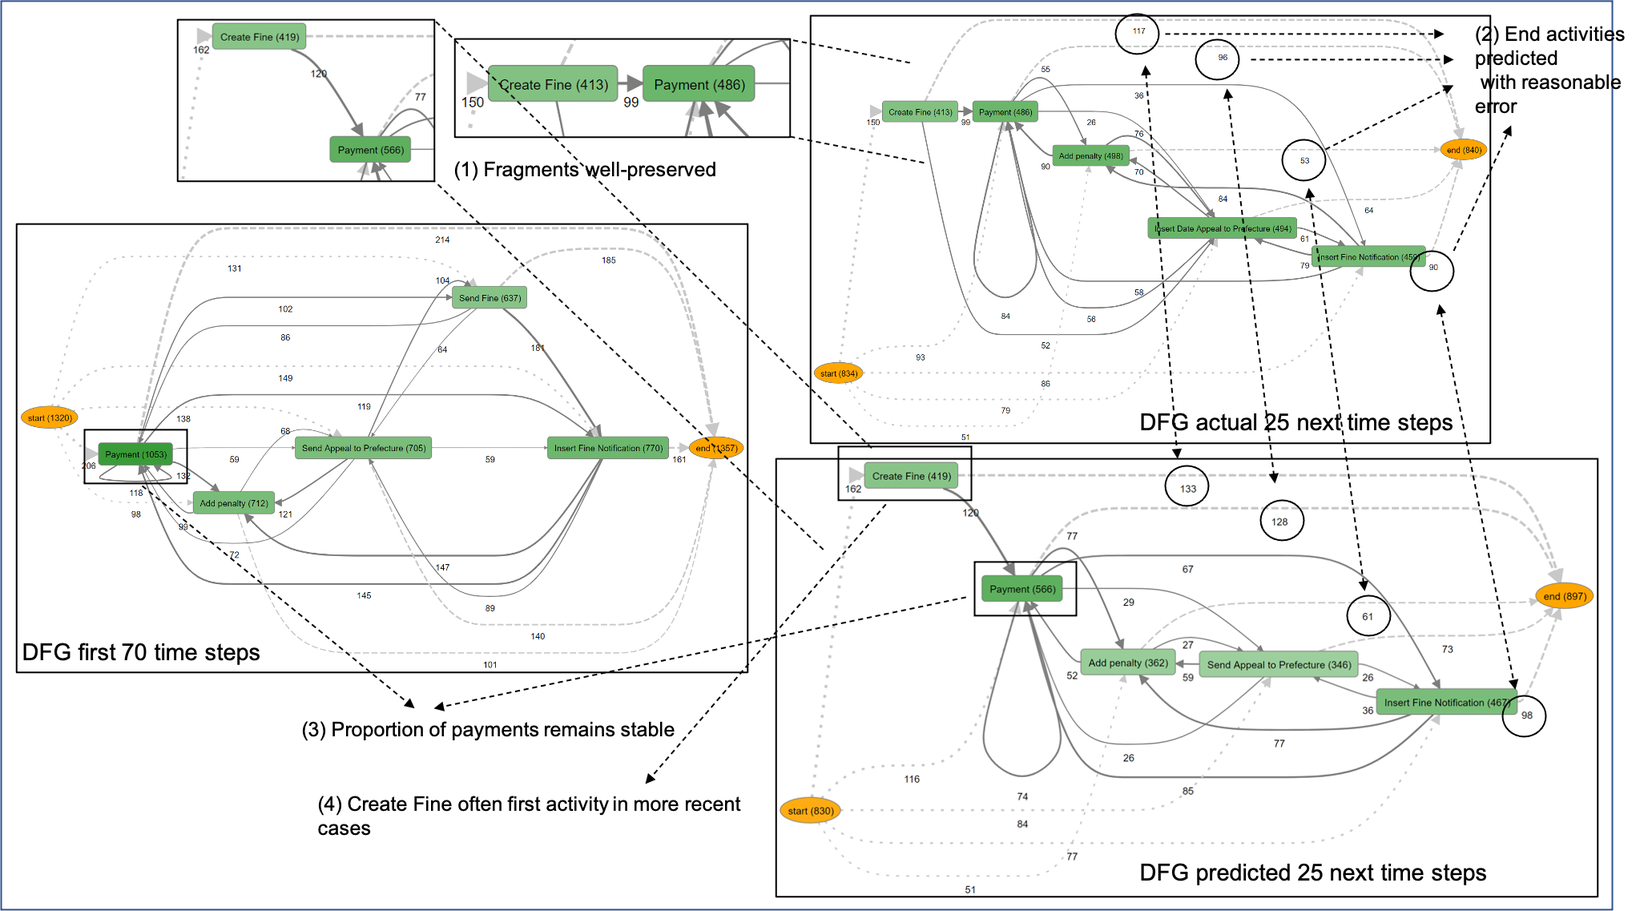
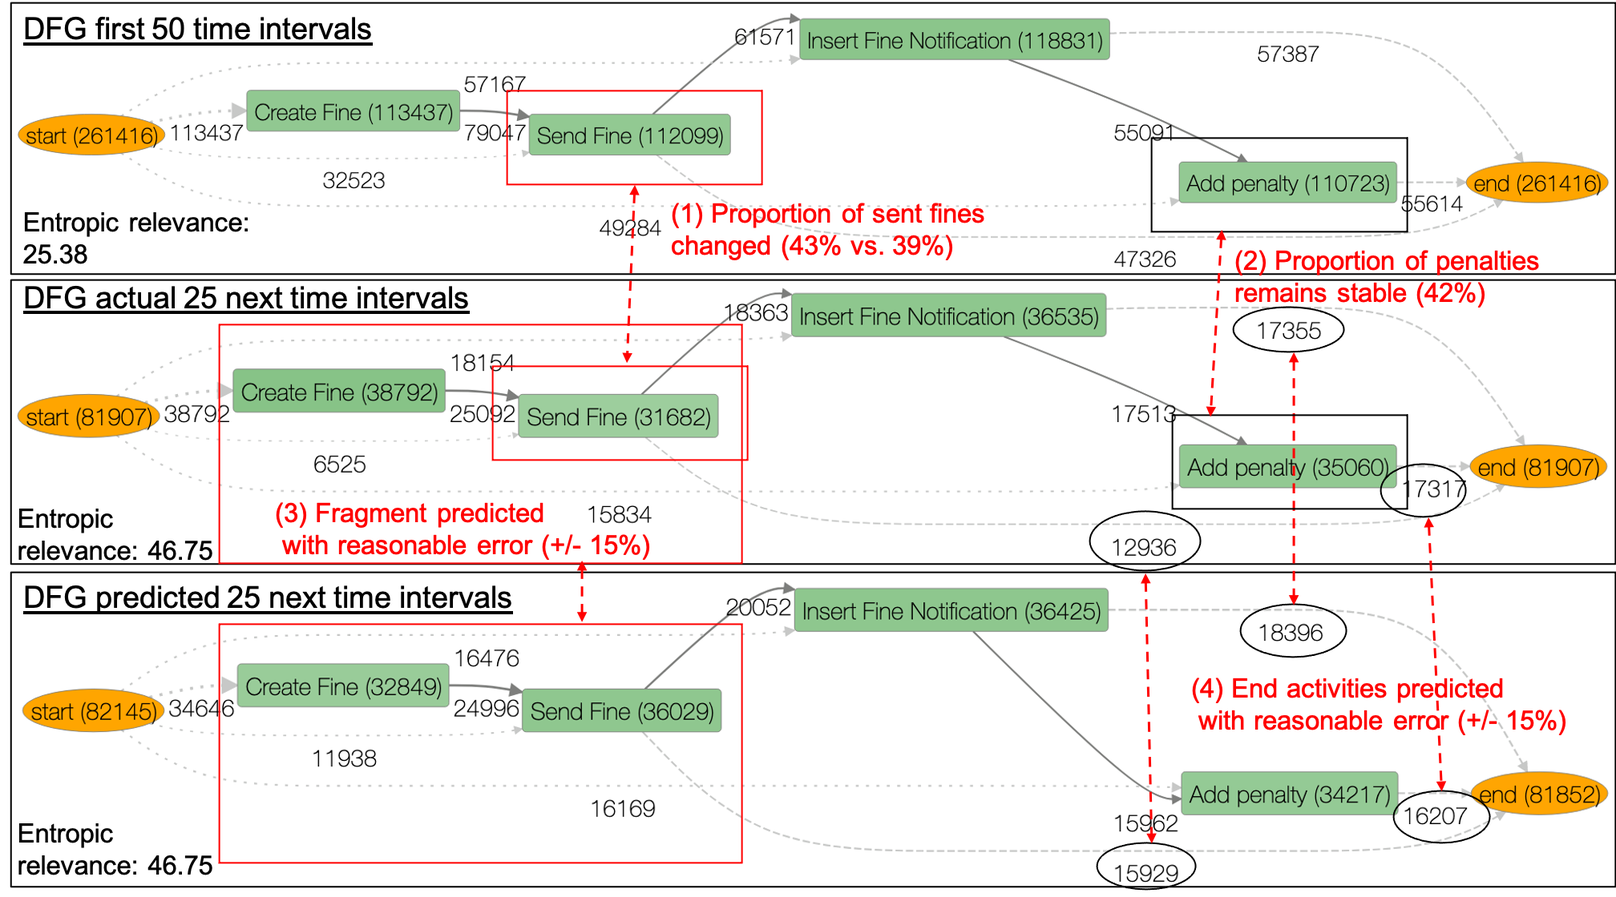
Mainly worked on the motivation section

Changed region(s): [[0.0, 0.0, 1.0, 1.0], [0.1875, 0.875, 0.5312, 0.9375]]

diff --git a/2-motivation.tex b/2-motivation.tex
@@ -4,36 +4,40 @@ The shift from fine-granular predictive process monitoring including next activi
 Consider the example in Figure \ref{fig:dfg_example_intro} where the road fine traffic management event log\footnote{\url{https://doi.org/10.4121/uuid:270fd440-1057-4fb9-89a9-b699b47990f5}} is partitioned into 100 intervals in which an equal number of DF relations occur.
 \begin{figure}
     \centering
-    \includegraphics[width=0.85\textwidth]{img/MotExample2.png}
+    \includegraphics[width=\textwidth]{img/MotExample.png}
     \caption{Directly-follows graphs of the 45 first intervals of the event log, as well as a forecasted and actual DFG of the 25 next intervals.}
     \label{fig:dfg_example_intro}
 \end{figure}
-The DFs in the first 45 intervals are used to predict the final 25 intervals.
-Entropic relevance \cite{DBLP:conf/icpm/PolyvyanyyMG20} is used to indicate that both the predicted and actual DFGs are of similar quality in terms of conformance (see Section \ref{sec:experiment}).
+The DFs in the first 50 intervals are used to predict the next 25 intervals.
 The DFGs show how process model forecasting and change exploration can provide multiple unique insights at a glance:
 \begin{enumerate}
-    \item The fragments and arc weights of the DFGs are well-preserved in the forecasted model;
-    \item The end activities are predicted with reasonable accuracy (+/- 10\%);
-    \item Compared to the initial 45 intervals the proportion of fine payments stays stable;
-    \item The \emph{Create Fine} activity appears as a start activity more often - indicating a possible process drift.
+    \item Compared to the initial 50 intervals the proportion of fines sent decreases in the later intervals;
+    \item The number of penalties added remains comparable between the first 50 and next 25 time intervals;
+    \item The number of occurrences and arc weights between \emph{Create Fine} and \emph{Send Fine} are predicted with reasonable error (+\-15\%)
+    \item The arc weights of the ending activities are predicted with reasonable error (+\-15\%)
 \end{enumerate}
-These provide insight both in terms of the past en present model ((3)-(4)) and the quality of forecasts between the actual and forecasted model ((1)-(2)).
-Being able to construct such predictions allows stakeholders to make estimates regarding how the overall fine system will evolve and allows to answer questions such as `How many more fines will be received?', `Will the backlog of fines be reduced?', `Will all fines be paid', and `Will the ratio of unpaid fines stay the same?'
+These provide insight both in terms of the past en present model ((1)-(2)) and the quality of forecasts between the actual and forecasted model ((3)-(4)).
+Being able to construct such forecasts allows stakeholders to make estimates regarding how the overall fine system will evolve and allows to answer questions such as `How many more fines will be received?', `Will the backlog of fines be reduced?', `Will all fines be paid', and `Will the ratio of unpaid fines stay the same?'
 This motivating example shows that, where process mining/monitoring focuses on learning the as-is model to reason about a to-be model and suggest potential repairs and improvements, process model forecasting allows to already grasp the future outcomes of the current as-is process, which allows to shortcut potentially wrong outcomes. 
 
-In this light we set to derive the user requirements to design visualisation the system to enable analysts to understand the forthcoming changes to the processes. The authors of~\cite{DBLP:conf/bpm/PollPRRR18} discuss the opportunities for process forecasting. They describe that the utility of process forecasting is an understanding of the incremental changes or adaptations that happen to the process model into the future. In terms of visualisation principles, we follow the "Visual Information-Seeking Mantra":~\emph{overview first, zoom and filter, then details-on-demand}~\cite{DBLP:conf/vl/Shneiderman96}. 
-%(maybe talk about tasks? not requirements)
-Thus, we expect the design of our system to assist in the following tasks:
+We evaluate the forecasts quantitatively using entropic relevance \cite{DBLP:conf/icpm/PolyvyanyyMG20} to measure the quality of the discovered and forecasted DFGs with respect to the event logs they represent. 
+Entropic relevance penalises the discrepancies in the relative frequencies of traces recorded in the log and described by the DFG. Entropic relevance stands for the average number of bits used to encode a log trace using the DFG, with small values being preferable to large ones.
+The entropic relevance of the forecasted DFG and the actual future DFG with respect to the test log is the same, suggesting that both DFGs represent the future behaviour similarly well. 
+The entropic relevance of the historical DFG derived from the training log with respect to the testing log is X, suggesting that the future behaviour shifts and the historical DFG does not describe the testing log well enough. 
+Finally, the DFG that describes all and only traces of the testing log with the relative frequencies as they are observed in the log has the entropic relevance with the testing log of Y, the best possible relevance value for this log. As the difference between 4.64 and Y is small, we conclude that the forecasted DFG approximates the actual future behaviour well and much better than the historical DFG.
 
-%requirements for the visualization based on the related literature and experience working with event sequence data. 
+In this light, we complement the model-level prediction technique with a visualisation system to enable analysts to understand the forthcoming changes to the processes. The authors of~\cite{DBLP:conf/bpm/PollPRRR18} discuss the opportunities for process forecasting. They describe that the utility of process forecasting is an understanding of the incremental changes or adaptations that happen to the process model into the future. In terms of visualisation principles, we follow the "Visual Information-Seeking Mantra":~\emph{overview first, zoom and filter, then details-on-demand}~\cite{DBLP:conf/vl/Shneiderman96}. 
+%(maybe talk about tasks? not requirements)
+Thus, we expect the design of our visualisation system to assist in the following tasks:
 
 \begin{requidescr}
-	\item[Identify process adaptations:\namedlabel{req:adaptation}] The visualization system should assist the user in identifying the changes that happen in the process model of the future in respect to the past;
-	\item[Allow for interactive exploration:\namedlabel{req:interactive}] The user should be able to follow the visual information-seeking principles, including overview first, filtering, zooming, details-on-demand principles.;
+	\item[Identify process adaptations:\namedlabel{req:adaptation}] The visualisation system should assist the user in identifying the changes that happen in the process model of the future in respect to the past;
+	\item[Allow for interactive exploration:\namedlabel{req:interactive}] The user should be able to follow the visual information-seeking principles, including overview first, filtering, zooming, and details-on-demand.
 \end{requidescr} % CUSTOM from CDC, with love :)
 
+Observe that our process model forecasting technique intrinsically puts forwards an entirely new perspective on predictive process monitoring. The prediction horizon is much longer compared to what existing next-activity prediction models can achieve. Moreover, where next-activity and related predictive algorithms have a strong case-level focus, our technique centres on model-level prediction to obtain a full picture of the future development of a process (model). Please note that process model forecasting could partially assume goal-oriented prediction, as the forecast DFG allows to answer multiple oftentimes used goal statements pertaining to the execution of a particular activity, or a precedence relationship of a particular activity pair \cite{DBLP:journals/tkdd/TeinemaaDRM19} at the same time. However, our technique is not intended to ``replace'' existing techniques, but rather puts forward an entirely new perspective.
 
-Note that the horizon is longer compared with next-step prediction, and that these results would only be obtainable if long next-step predictions were performed.
-Hence, both are complementary by their being used as varying horizons to obtain a full picture of the future development of a process (model).
-Process model forecasting remains complementary with remaining time prediction as well, which could indicate what activities lead to what remaining time.
-The process model forecast can partially assume goal-oriented prediction, as the forecast DFG allows to answer multiple oftentimes used goal statements pertaining to the execution of a particular activity, or a precedence relationship of a particular activity pair \cite{DBLP:journals/tkdd/TeinemaaDRM19} at the same time.
+%Note that the horizon is longer compared with next-step prediction, and that these results would only be obtainable if long next-step predictions were performed.
+%Hence, both are complementary by their being used as varying horizons to obtain a full picture of the future development of a process (model).
+%Process model forecasting remains complementary with remaining time prediction as well, which could indicate what activities lead to what remaining time.
+%The process model forecast can partially assume goal-oriented prediction, as the forecast DFG allows to answer multiple oftentimes used goal statements pertaining to the execution of a particular activity, or a precedence relationship of a particular activity pair \cite{DBLP:journals/tkdd/TeinemaaDRM19} at the same time.

diff --git a/3.1-2-dftimeseries.tex b/3.1-2-dftimeseries.tex
@@ -12,14 +12,15 @@ In the proposed forecasting approach, however, time series instead of cross-sect
 Hence, the evolution of the DFGs has to be monitored over intervals of the log where multiple aggregations are possible:
 \begin{itemize}
 	\item \textbf{Equitemporal aggregation:} each sublog $L_s\in L$ contains a part of the event log of equal time duration. This can lead to sparsely populated sublogs when the events' occurrences are not uniformly spread over time, however, it is easy to apply (on new traces).
-	\item \textbf{Equisized aggregation:} each sublog $L_s\in L$ contains a part of the event log where an equal amount of events (and hence DFs) occurred. This leads to well-populated sublogs, however, might be harder to apply when new data does not contain sufficient new DF occurrences.
+	\item \textbf{Equisized aggregation:} each sublog $L_s\in L$ contains a part of the event log where an equal amount of DFs occurred which leads to well-populated sublogs when enough events are available.
 \end{itemize}
 Tables \ref{tab:eventlog} and \ref{tab:aggregation} provide an example of both.
 These aggregations can be useful for the following reasons.
 Firstly, equisized aggregation will have a higher likelihood of the underlying DFs approaching a white noise time series which is required for a wide range of time series techniques \cite{hyndman2018forecasting}. 
 Secondly, both offer a different threshold at which the forecasting can be applied in practice.
 In the case of equisized aggregation, it is easier to quickly construct a desired number of intervals by simply dividing an event log to obtain equisized intervals.
-However, most time series techniques rely on the time steps being of equal size which is embodied by the equitemporal aggregation \cite{kil1997optimum}.
+However, most time series techniques rely on the time intervals being of equal size which is embodied by the equitemporal aggregation \cite{kil1997optimum}.
+Time series for the DFs $>_{T_{a_1,a_2}}=\langle >_{L_1}(a_1,a_2),\dots,>_{L_s}(a_1,a_2)\rangle, \forall a_1,a_2\in \Sigma\times\Sigma$ can be obtained for all activity pairs where $\bigcup^{L_s}_{L_1}=L$ by applying the aforementioned aggregations to obtain the sublogs.
 \begin{table}[htbp]
    \begin{minipage}{.5\textwidth}
    	\centering
@@ -60,18 +61,47 @@ However, most time series techniques rely on the time steps being of equal size 
  \end{minipage}%
 \end{table}%
 
-Time series for the DFs $>_{T_{a_1,a_2}}=\langle >_{L_1}(a_1,a_2),\dots,>_{L_s}(a_1,a_2)\rangle, \forall a_1,a_2\in \Sigma\times\Sigma$ can be obtained for all activity pairs where $\bigcup^{L_s}_{L_1}=L$ by applying the aforementioned aggregations to obtain the sublogs.
+\subsection{From DF time series to process model forecasts}\label{sec:3b:df}
 
-%\subsection{From DF time series to process model forecasts}\label{sec:3b:df}
+The goal of process model forecasting is to obtain a prediction for future DFGs by combining the predictions of all the DF pairs time series.
+To this purpose, we propose to use time series techniques to forecast $\widehat{DFG}_{T+h}=(\Sigma,\{\hat{>}_{T+h|T_{a_1,a_2}}|a_1,a_2\in \Sigma\times\Sigma\})$ for which various algorithms can be used.
+In time series modelling, the main objective is to obtain a forecast or prediction $\hat{y}_{T+h|T}$ for a horizon $h\in \mathbb{N}$ based on previous $T$ values in the series $(y_1,...,y_T)$ \cite{hyndman2018forecasting}.
+For example, the naive forecast simply uses the last value of the time series $T$ as its prediction $\hat{y}_{T+h|T}=y_T$.
+An alternative naive forecast uses the average value of the time series $T$ as its prediction $\hat{y}_{T+h|T}=\frac{1}{T}\Sigma_i^{T} y_i$.
 
 A trade-off exists between approaching DFGs as a multivariate collection of DF time series, or treating each DF separately.
-The aforementioned time series techniques all use univariate data in contrast with, e.g., Vector AutoRegression (VAR) models, or machine learning-based methods such as neural networks or random forest regressors.
+Traditional tme series techniques all use univariate data in contrast with multivariate approaches such as Vector AutoRegression (VAR) models, and machine learning-based methods such as neural networks or random forest regressors.
 Despite their simple setup, it is debated whether traditional statistical approaches are necessarily outperformed by machine learning methods. 
 \cite{makridakis2018statistical} found that this is not the case on a large number of datasets and note that the machine learning algorithms require significantly more computational power, a result that was later reaffirmed although it is noted that hybrid solutions are effective \cite{makridakis2020m4}.
 Especially for longer horizons, traditional time series approaches still outperform machine learning-based models.
 Given the potentially high number of DF pairs in a process' DFG, the proposed approach uses a time series algorithm for each DF series separately.
 VAR models would require a high number of intervals (at least as many as there are DFs times the lag coefficient) to be able to estimate all parameters of such a high number of time series despite their potentially strong performance \cite{thomakos2004naive}.
-Machine learning models could potentially leverage interrelations between the different DFs but again would require long training times to account for dimensionality issues due to the potentially high number of DFs. Therefore, in this paper, traditional time series approaches are chosen and applied to the univariate DF time series where these have at least 1 observation per sublog/time step present.
+Machine learning models could potentially leverage interrelations between the different DFs but again would require long training times to account for dimensionality issues due to the potentially high number of DFs. 
+Therefore, in this paper, traditional time series approaches are chosen and applied to the univariate DF time series where these have at least 1 observation per sublog/time interval present.
 
-Therefore, in this paper, we propose to use univariate time series techniques which can be used to forecast process models represented by DFGs by applying them to each DF time series separately to obtain a forecasted directly-follows graph $\widehat{DFG}_{T+h}=(\Sigma,\{\hat{>}_{T+h|T_{a_1,a_2}}|a_1,a_2\in \Sigma\times\Sigma\})$.
+We briefly discuss smoothing models, autoregressive, moving averages and ARIMA models, and varying variance models which make up the main families of traditional time series forecasting \cite{hyndman2018forecasting}.
+A wide array of such forecasting techniques exist, ranging from simple models such as naive forecasts over to more advanced approaches such as exponential smoothing and auto-regressive models.
+Many also exist in a seasonal variant due to their application in contexts such as sales forecasting.
+
+A Simple Exponential Smoothing (SES) model uses a weighted average of past values where their importance exponentially decays as they are further into the past where Holt's models introduce a trend in the forecast, meaning the forecast is not flat.
+Exponential smoothing models often perform very well despite their simple setup \cite{makridakis2018statistical}.
+AutoRegressive Integrating Moving Average (ARIMA) models are based on auto-correlations within time series. 
+They combine auto-regressions with a moving average over error terms.
+It is established by a combination of an AutoRegressive (AR) model of order $p$ uses the past $p$ values in the time series and applies a regression over them and a Moving Average (MA) model of order $q$ which creates a moving average of the past forecast errors.
+Given the necessity of using a white noise series for AR and MA models, data is often differenced to obtain such series.
+ARIMA models then combine both AR and MA models where the integration is taking place after modelling as these models are fitted over differenced time series.
+ARIMA models are considered to be one of the strongest time series modelling techniques.
+An extension to ARIMA which is widely used in econometrics exists in (Generalized) AutoRegressive Conditional Heteroskedasticity ((G)ARCH) models \cite{francq2019garch}.
+They resolve the assumption that the variance of the error term has to be equal over time, but rather model this variance as a function of the previous error term.
+For AR-models, this leads to the use of ARCH-models, while for ARMA models GARCH-models are used as follows.
+An ARCH(q) model captures the change in variance by allowing it to both gradually increase over time, or to allow for short bursts of increased variance.
+A GARCH(p,q) model combines both the past values of observations as well as the past values of variance.
+(G)ARCH models often outperform ARIMA models in contexts such as the prediction of financial indicators of which the variance often changes over time \cite{francq2019garch}.
+
+
+
+
+
+
+
 

diff --git a/4-evaluation.tex b/4-evaluation.tex
@@ -5,7 +5,7 @@ This is done at various parts of the trace, i.e. forecasts for the middle of the
 This is done for both the equisized and equitemporal aggregation.
 
 \subsection{Re-sampling and test setup}
-In order to obtain training data, time series are obtained by specifying a number of intervals (i.e. time steps in the DF time series) using either equitemporal or equisized aggregation a described in Section \ref{sec:preliminaries}.
+In order to obtain training data, time series are obtained by specifying a number of intervals (i.e. time steps in the DF time series) using either equitemporal or equisized aggregation a described in Section \ref{sec:3a:preliminaries}.
 Time series algorithms are parametric and sensitive to sample size requirements \cite{hanke2001business}.
 Depending on the number of parameters a model uses, a minimum size of at least 50 steps is not uncommon, although typically model performance should be monitored at a varying number of steps.
 In the experimental evaluation, the event logs are divided into 100 time intervals with a varying share of training and test intervals. A constant and long horizon $h=25$ is used meaning all test sets contain 25 intervals, but the training sets are varied from $ts=25$ to $ts=75$ intervals, meaning the forecasts progressively target the prediction of intervals 25-50 (the second quarter of intervals) over to 75-100 (the last quarter of intervals).
@@ -53,11 +53,10 @@ Given that we want to evaluate the capability of the approach to accurately pred
 The following two criteria are used:
 \begin{itemize}
 	\item \textbf{Cosine distance:} measures the distance between two vectors and is often used to compare graph distance. This metric is used to compare the DFGs' edge weight matrices between the actual and predicted number of DF relations.
-	\item \textbf{Entropic relevance:} a measure for stochastic conformance checking computed as the average number of bits required to compress each of the log’s traces based on the structure and information about relative likelihoods provided by the model \cite{DBLP:conf/icpm/PolyvyanyyMG20}.
+	\item \textbf{Entropic relevance:} see section \ref{sec:2:motivation}.
 \end{itemize}
 These criteria balance a predictive and structural evaluation of the algorithms and report on both the numeric performance common in a forecasting setting as well as their appropriateness in terms of reproducing a structurally usable process model which allows for the observed process behaviour.
 In both cases a lower score is better.
-The entropic relevance also allows to compare the adequacy of the forecasted DFGs with the actual DFGs.
 
 \subsection{Results}
 All pre-processing was done in Python with a combination of \emph{pm4py}\footnote{\url{https://pm4py.fit.fraunhofer.de}} and the \emph{statsmodels} package \cite{seabold2010statsmodels}. 

diff --git a/3.3-visualisation.tex b/3.3-visualisation.tex
@@ -14,7 +14,7 @@
 % 3. implementation and the resources.
 %%%
 
-In~\Cref{sec:3a:preliminaries,sec:3b:timeseries} we described the approach for forecasting process models. To that end, gaining actual insights from such predicted values remains a difficult task for the analyst. This section sets off to present the design of a novel visualisation system to aid analysts in the exploration of the event logs and their corresponding (forecasted) discovered process models.
+In~\Cref{sec:3a:preliminaries} we described the approach for forecasting process models. To that end, gaining actual insights from such predicted values remains a difficult task for the analyst. This section sets off to present the design of a novel visualisation system to aid analysts in the exploration of the event logs and their corresponding (forecasted) discovered process models.
 
 Following the user tasks~\ref{req:adaptation} and~\ref{req:interactive}, we designed a Process Change Exploration (PCE) system to support the interpretation of the process model forecasts. PCE is an interactive visualisation system that consists of three connected views.
 

diff --git a/4.5-visualisation.tex b/4.5-visualisation.tex
@@ -8,6 +8,6 @@ The design of the PCE system is shown in Figure~\ref{fig:vis-two-brushes}. It sh
 \begin{figure}
 	\centering
 	\includegraphics[width=\textwidth]{img/vis/actual-predicted-two-brushed-regions-system.PNG}
-	\caption{Process Change Exploration (PCE) system.~\emph{(a)} shows~\emph{Adaptation Directly-Follows Graph (aDFG)} view.~\emph{(b)} shows the \emph{Timeline view with brushed regions} view. Users can brush one or more regions on this graph in order to filter the scope of the analysis~\emph{(b.1}, and~\emph{b.2)}. Two additional views~\emph{(c.1)}, and~\emph{(c.2)} show the \emph{activity and path sliders}.} 
+	\caption{Process Change Exploration (PCE) system.~\emph{(a)} shows~\emph{Adaptation Directly-Follows Graph (aDFG)} view.~\emph{(b)} shows the \emph{Timeline view with brushed regions} view. Users can brush one or more regions on this graph in order to filter the scope of the analysis~\emph{(b.1}, and~\emph{b.2)}. Two additional views on~\emph{(c)} show the \emph{activity and path sliders}.} 
 	\label{fig:vis-two-brushes}
 \end{figure}

diff --git a/3-methodology.tex b/3-methodology.tex
@@ -2,8 +2,7 @@
 This section outlines how directly-follows time series are extracted from event logs as well as how they are used to obtain process model forecasts with a range of widely-used forecasting techniques.
 Finally, the visualisation of such predictions is introduced.
 
-\input{3.1-dftimeseries}
-\input{3.2-timeseriestechniques}
+\input{3.1-2-dftimeseries}
 \input{3.3-visualisation}
 
 

diff --git a/0-article.tex b/0-article.tex
@@ -48,7 +48,7 @@
 \mainmatter
 %
 %\title{From Time Series to Process Model Forecasting}
-\title{Process Model Forecasting Using Time Series Analysis of Event Data}
+\title{Process Model Forecasting Using Time Series Analysis of Event Sequence Data}
 %
 \titlerunning{Process Model Forecasting From Time Series } 
 %

diff --git a/addon/macros.tex b/addon/macros.tex
@@ -5,7 +5,7 @@
 %
 \RequirePackage{enumitem}
 %
-\def\requiprefix{R}
+\def\requiprefix{T}
 %
 \newcounter{requicount}
 \newlist{requidescr}{description}{1}
